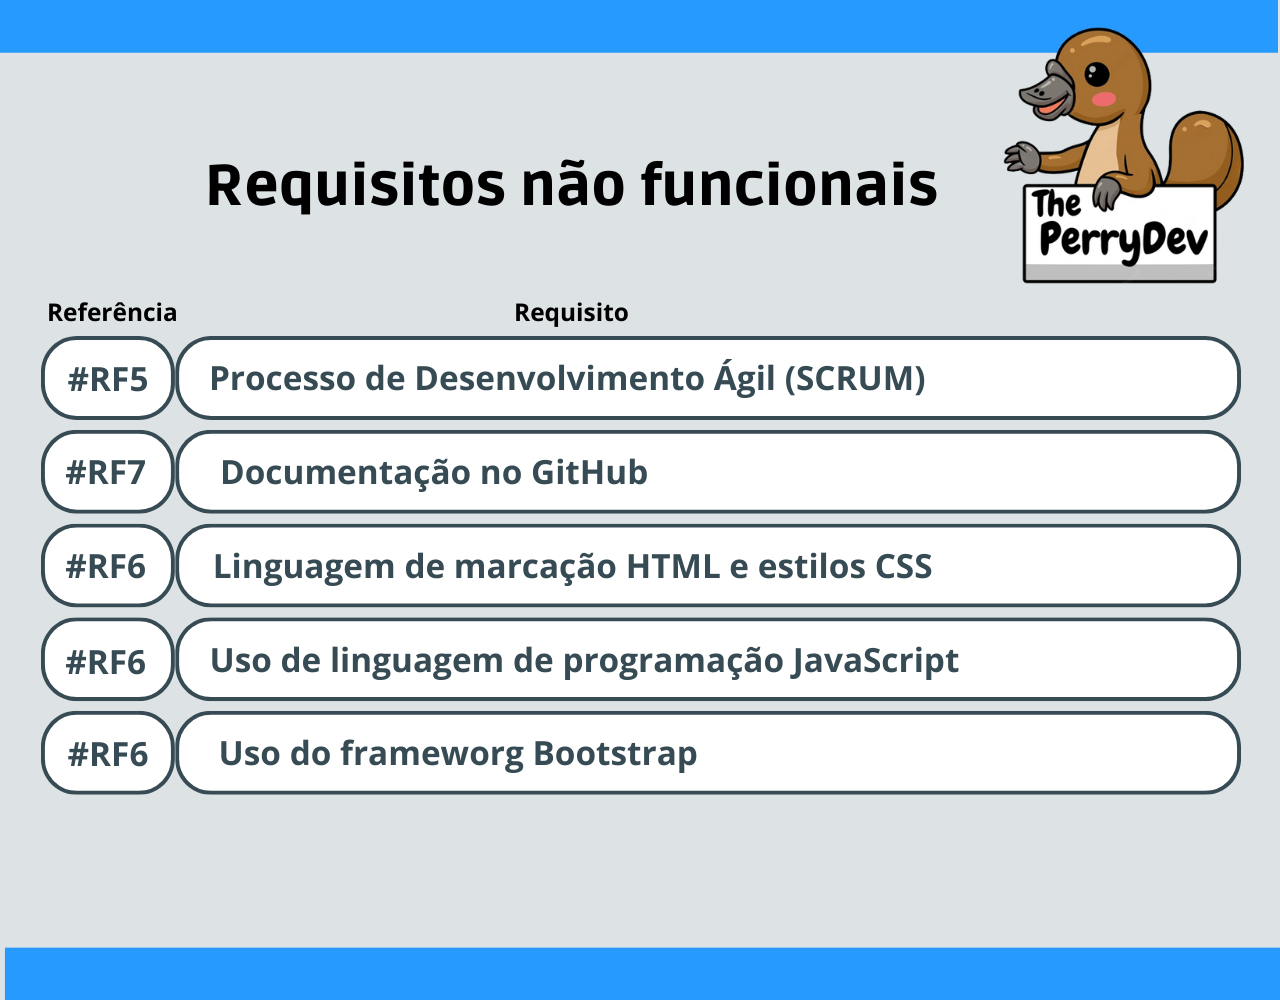
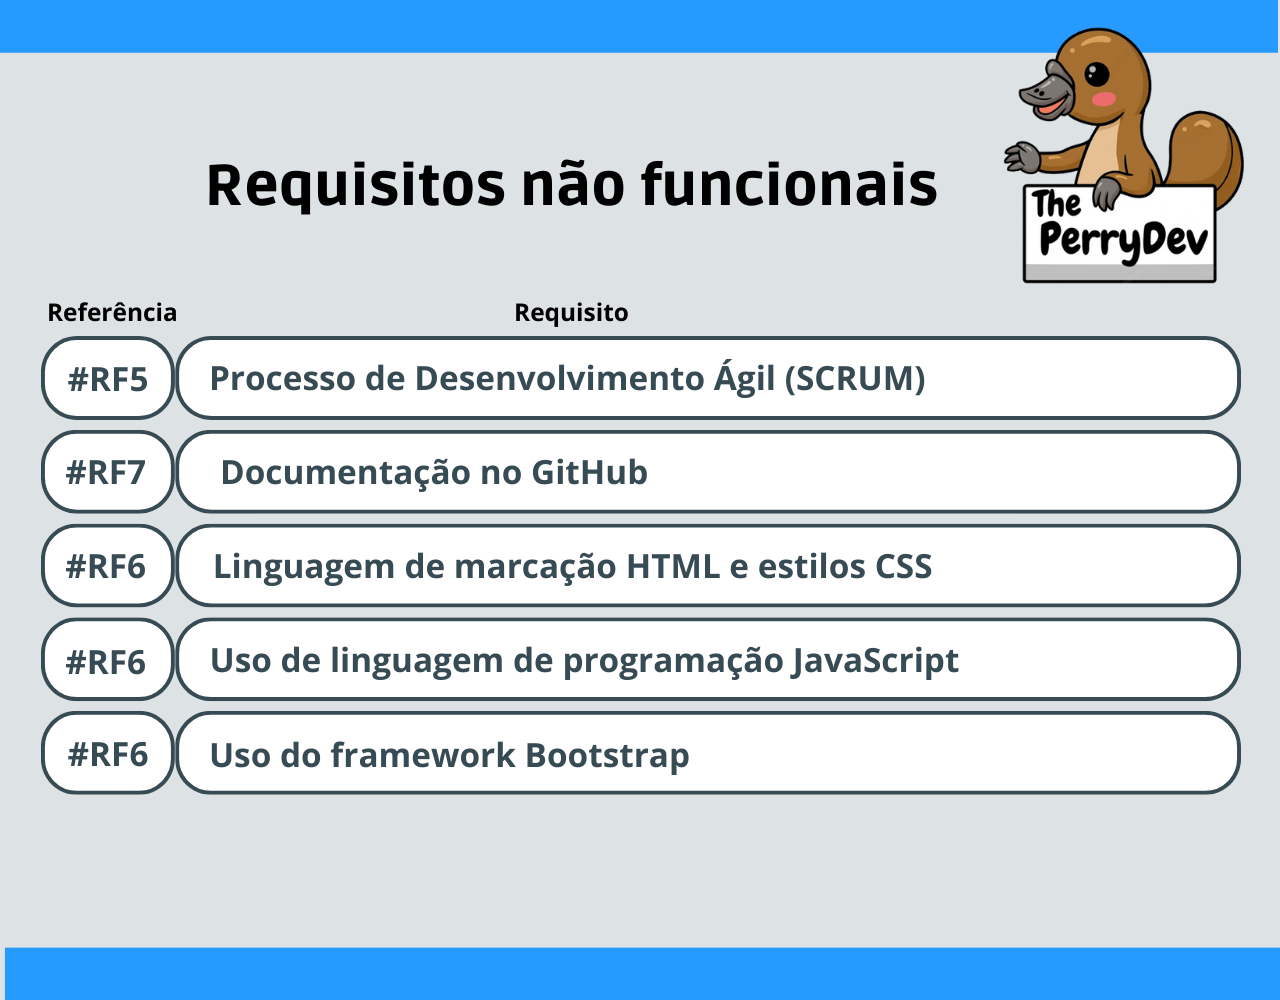
Sobre o Projeto

Changed region(s): [[0.1562, 0.744, 0.5625, 0.775]]

diff --git a/README.md b/README.md
@@ -1,1 +1,43 @@
-# The Perry Devs
+<br id="topo">
+
+<p align="center"> <img src="./BANNER.png" /></p>
+
+<p align="center">
+    <a href="#sobre">Sobre</a>  |  
+    <a href="#backlogs">Backlogs</a>  |  
+    <a href="#user-stories">User Stories</a>  |  
+    <a href="#prototipo">Protótipo</a>  |  
+    <a href="#tecnologias">Tecnologias</a>  |  
+    <a href="#equipe">Equipe</a>  |  
+    <a href="#final">Apresentação Final</a>
+</p>
+   
+<span id="sobre">
+
+## :bookmark_tabs: Sobre o projeto
+
+A partir da apresentação do desafio pela empresa FATEC, a solução apresentada pela empresa The Perry Devs consiste em criar um site institucional para treinamento da metodologia ágil e seus artefatos, fazendo com que os colaboradores da FATEC padronizem a elaboração de seus projetos e multipliquem a metodologia após o aprendizado.
+
+> _Projeto baseado na metodologia ágil SCRUM, procurando desenvolver a Proatividade, Autonomia, Colaboração e Entrega de Resultados dos envolvidos_
+
+:pushpin: Status do Projeto: **Em Andamento** :on:
+
+### Entregas de Sprints
+
+Cada entrega será realizada a partir da criação de uma **tag** em cada repositório (Doc, Web e API), assim como a criação de branchs específicas para cada Sprint a fim de controlar cada etapa do projeto. Observe a relação a seguir:
+| Sprint | Previsão | Status | Histórico |
+|:------:|:----------:|:-------------|:-------------------------------------------------:|
+| 01 | De 13/03/23 a 09/04/23 | :clock2: Em andamento | [ver relatório]|
+| 02 | De 13/04/23 a 07/05/23 | :soon: Não Iniciado | [ver relatório]|
+| 03 | De 15/05/23 a 06/06/23 | :soon: Não Iniciado | [ver relatório]|
+
+→ [Voltar ao topo](#topo)
+
+<span id="backlogs">
+
+## :dart: Backlog
+
+<p align="center"> <img src="./01. BACKLOG DO PRODUTO.png" /></p>
+<p align="center"> <img src="./02. REQUISITOS N+âO FUNCIONAIS.png" /></p>
+
+→ [Voltar ao topo](#topo)
